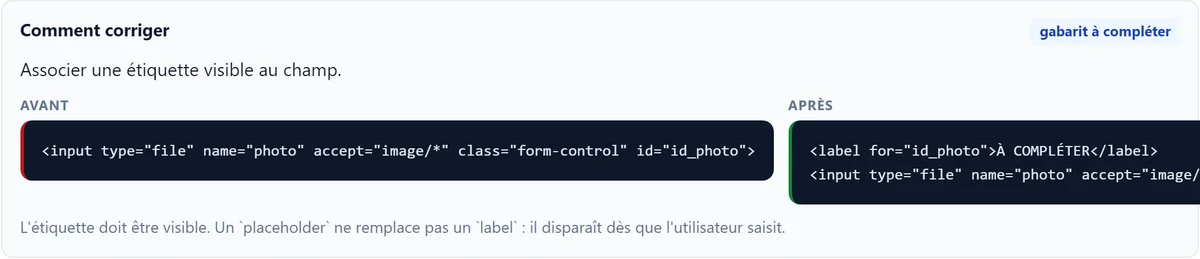
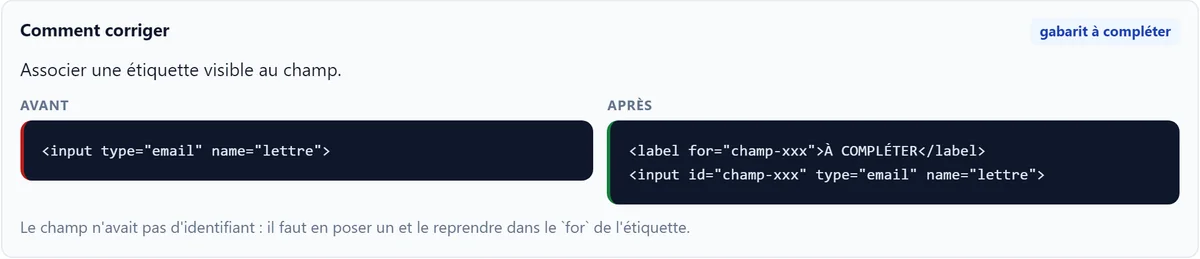
Captures du bandeau refaites : elles annonçaient 36 %, la page dit 34 %
L'image du rapport montrait « 38 critères sur 106, soit 36 % » — le
chiffre d'avant la correction. Le texte juste à côté disait 34 %.

Un artefact déjà produit ne se corrige pas en corrigeant le code : le
contrôle du périmètre lit le texte des pages, il ne sait pas lire une
image.

Le texte alternatif suit, lui aussi : il décrivait les anciens chiffres.

diff --git a/index.html b/index.html
@@ -74,9 +74,10 @@
       <div class="composition">
         <img class="ecran-tableau" src="media/tableau.webp" alt="" width="1200" height="769">
         <img class="ecran-rapport" src="media/rapport.webp" width="1400" height="1094"
-             alt="Rapport d'accessibilité de l'application : note de 70 sur 100 plafonnée
-                  par un défaut critique, taux de conformité RGAA de 92,1 %, et la liste
-                  des défauts à corriger rattachés à leur critère.">
+             alt="Rapport d'accessibilité de l'application : note de 36 sur 100,
+                  taux de conformité RGAA de 83,3 % sur 36 critères testés,
+                  5 défauts distincts dont 3 critiques, et la liste des défauts
+                  à corriger rattachés à leur critère RGAA.">
         <img class="ecran-correction" src="media/correction.webp" alt="" width="1200" height="259">
       </div>
 
